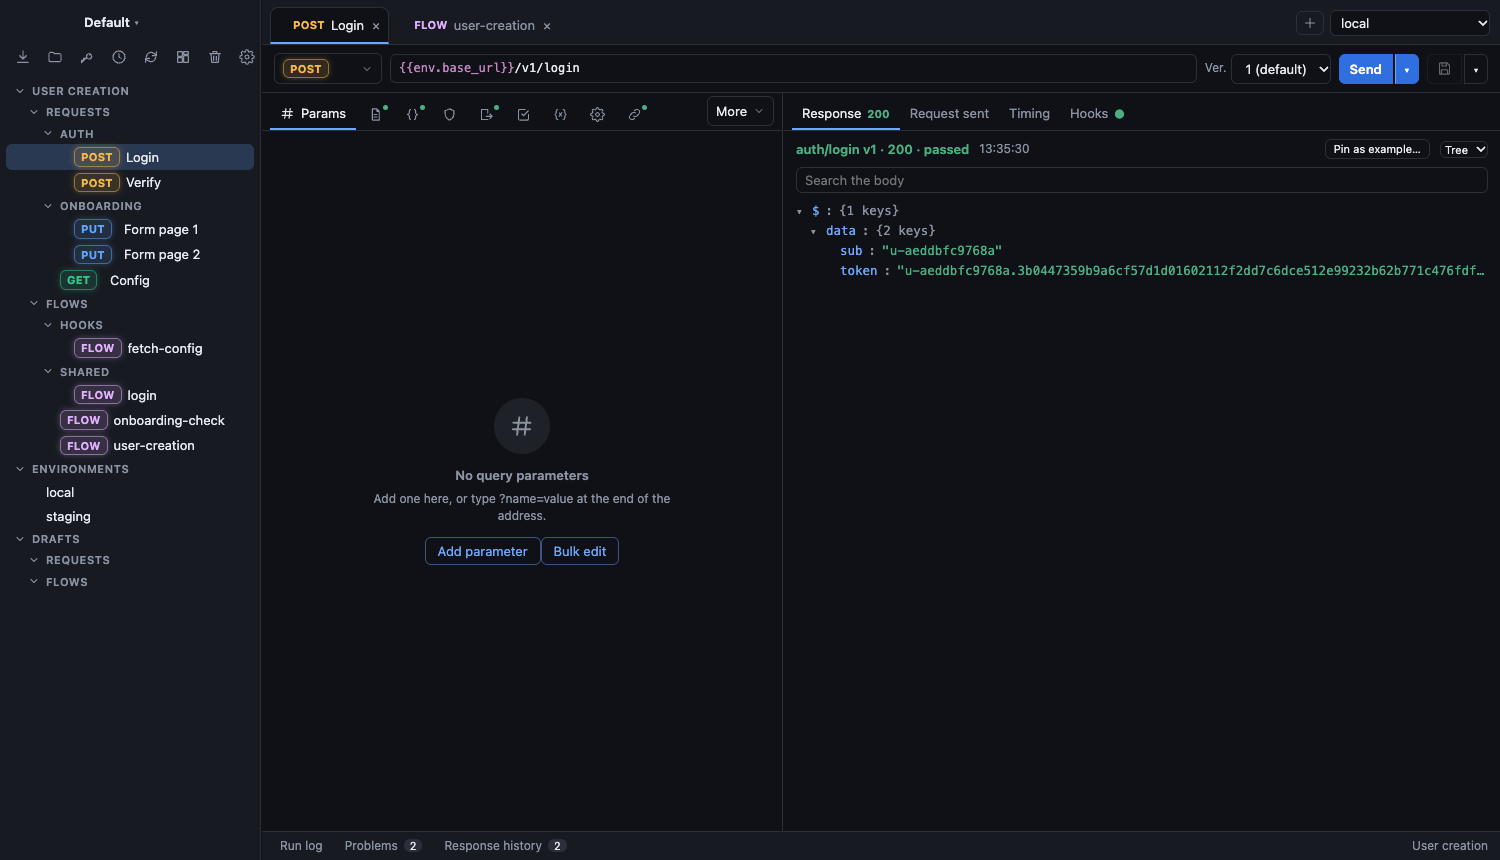
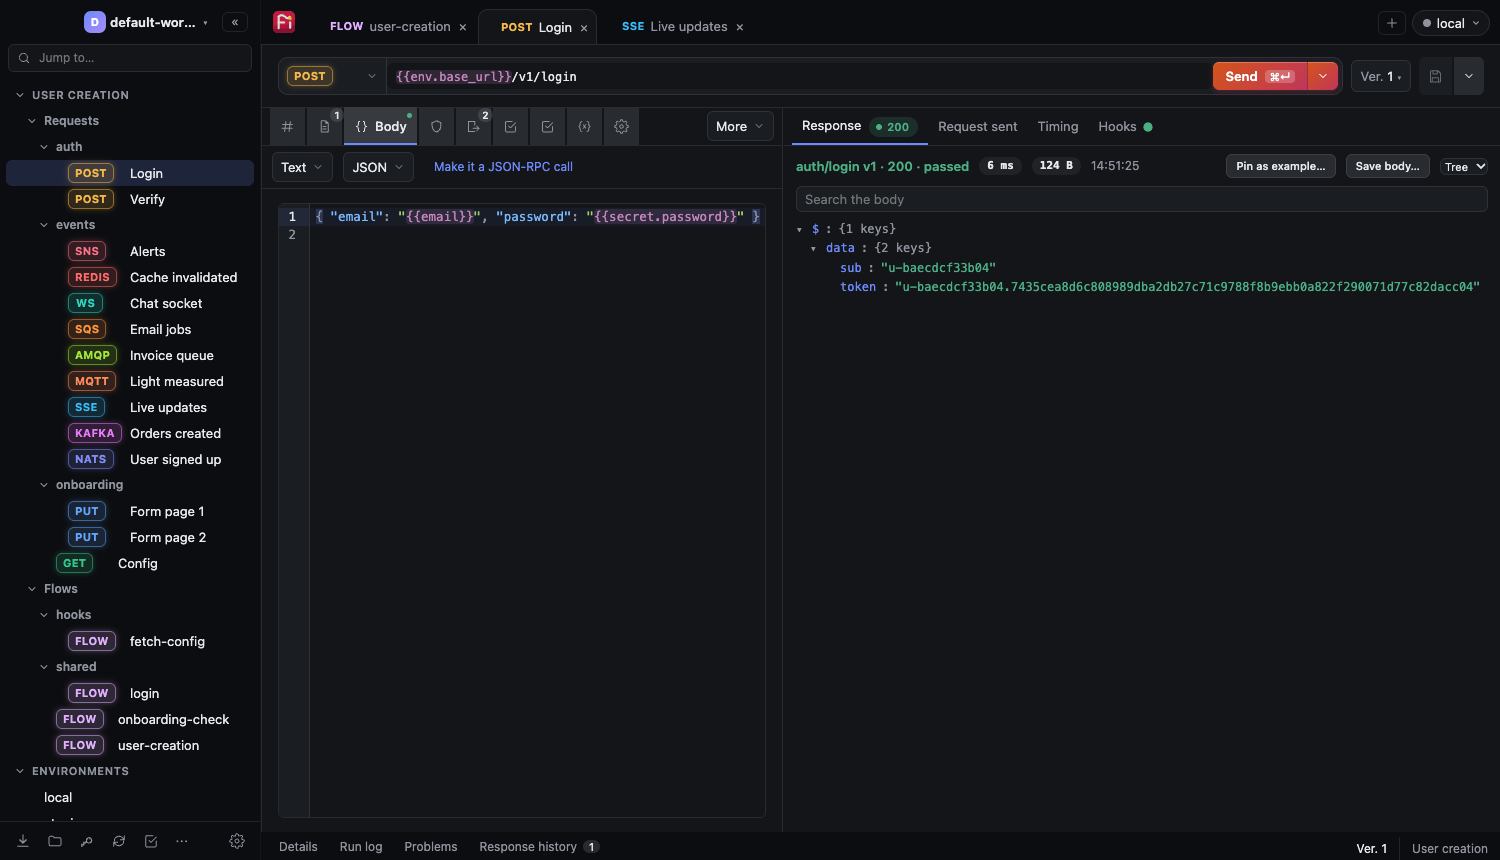
docs(app): retake the README screenshots
The screenshots predated the surface ladder, the new response and message rows,
the folder-style import preview and the redesigned replayer and scheduler, so
the README showed an app that no longer looked like this. Retaken from a browser
build against the demo collection and demo API.

diff --git a/app/README.md b/app/README.md
@@ -6,7 +6,7 @@ git repository; secrets stay in an encrypted local vault.
 
 > Status: **pre-alpha**. The file format and the app will change.
 
-![A flow with its run results and the inspector](docs/images/flow-editor.png)
+![A flow after a run, with the request of the selected step](docs/images/flow-editor.png)
 
 Flowi is one repository with three parts: this app (`app/`), the [command-line tool](../cli) that
 runs the same collections in CI, and the [core library](../lib) both are built on.
@@ -23,7 +23,12 @@ change to a request would break.
 
 Build and send HTTP and gRPC requests. Use `{{templates}}` from environments, secrets and generators, keep several
 **versions** of a request, attach pre and post **hooks**, and pin a response as an example. Responses show as a
-tree, with timing, the exact request sent, and a history. Copy a request as curl and other snippets.
+tree, with timing, the exact request sent, and a history. Copy a request as curl and other snippets. Besides the
+usual methods you can use `QUERY` or any method of your own.
+
+A **flowi overlay** is a named variant you lay over a request when you send it: the same call as a VIP customer, with
+a slow connection, or with a bad token. Save one from what you have on screen, and Flowi shows what it changes before
+it writes anything.
 
 ![The request editor with a response](docs/images/api-explorer.png)
 
@@ -38,11 +43,23 @@ Each run connects, does its work and closes.
 
 ![Receiving server-sent events, with message requests for each protocol in the tree](docs/images/async-messages.png)
 
+### Query a database
+
+A request can also be a query: PostgreSQL, MySQL, MariaDB or SQLite. Write the SQL, give its values as parameters, and
+see the rows in a table. A query only reads, and a flow's request step can run it like any other request, so a flow
+can check what an API wrote.
+
 ### Build flows on a canvas
 
 Drag steps onto the canvas: request, extract, assert, condition, delay, batch, parallel, run until, subflow and
-more. Steps run in order; dotted arcs show which values pass from one step to another. Run the flow and watch each
-step turn green or red, then open its response, or run only part of it.
+more. Dotted arcs show which values pass from one step to another. Run the flow and watch each step turn green or red,
+then open what it sent and what came back, or run only part of it.
+
+Every step has **outcomes**: success and failure to begin with, and you can add your own, such as "401" or "slow".
+Drag from an outcome to the step that should run when it happens, and click an arrow to say whether it fires on
+success, on failure or on either. That is how a flow handles a failed login without stopping. The **Checks** menu
+runs a flow across a matrix of environments and overlays, checks that another user cannot reach what the flow made,
+looks for drift from the responses seen before, and draws a sequence diagram of the last run.
 
 ### Arazzo and the file view
 
@@ -64,6 +81,8 @@ copied into files.
 
 Serve your saved responses as a local API, so a front end can work before the back end exists. Or point it at a
 real API to **record**: it forwards each call, saves the answer, and turns calls it has not seen into new requests.
+It can also misbehave on purpose, to try retries and error handling: answer a share of calls with an error, drop the
+connection, or add a random delay. One call can ask for it with a header, such as `X-Flowi-Fault: error:418`.
 
 ![The replayer answering calls](docs/images/replayer.png)
 

diff --git a/README.md b/README.md
@@ -12,6 +12,8 @@ parts that each have their own module, licence and releases:
 The licence in each folder's `LICENSE` file applies to that folder only. The library is Apache-2.0 so that it can be
 used in other software; the app and the CLI are AGPL.
 
+![A flow after a run, with the request of the selected step](app/docs/images/flow-editor.png)
+
 Start with the [app README](app/README.md) for what Flowi does and how to run it, or the
 [development guide](lib/docs/development.md) for how the parts fit together.
 
@@ -26,6 +28,6 @@ just check       # tidy, lint and test every module
 
 ## Releases
 
-Each part is tagged on its own, with its folder as a prefix: `lib/v0.3.0`, `cli/v0.3.0`, `app/v0.3.0`. A `cli/` or
+Each part is tagged on its own, with its folder as a prefix: `lib/v0.4.1`, `cli/v0.4.1-alpha.1`, `app/v0.4.1-alpha.1`. A `cli/` or
 `app/` tag builds and publishes that part's release; the `lib/` tag is what `go get github.com/githugt/flowi/lib`
 resolves.
